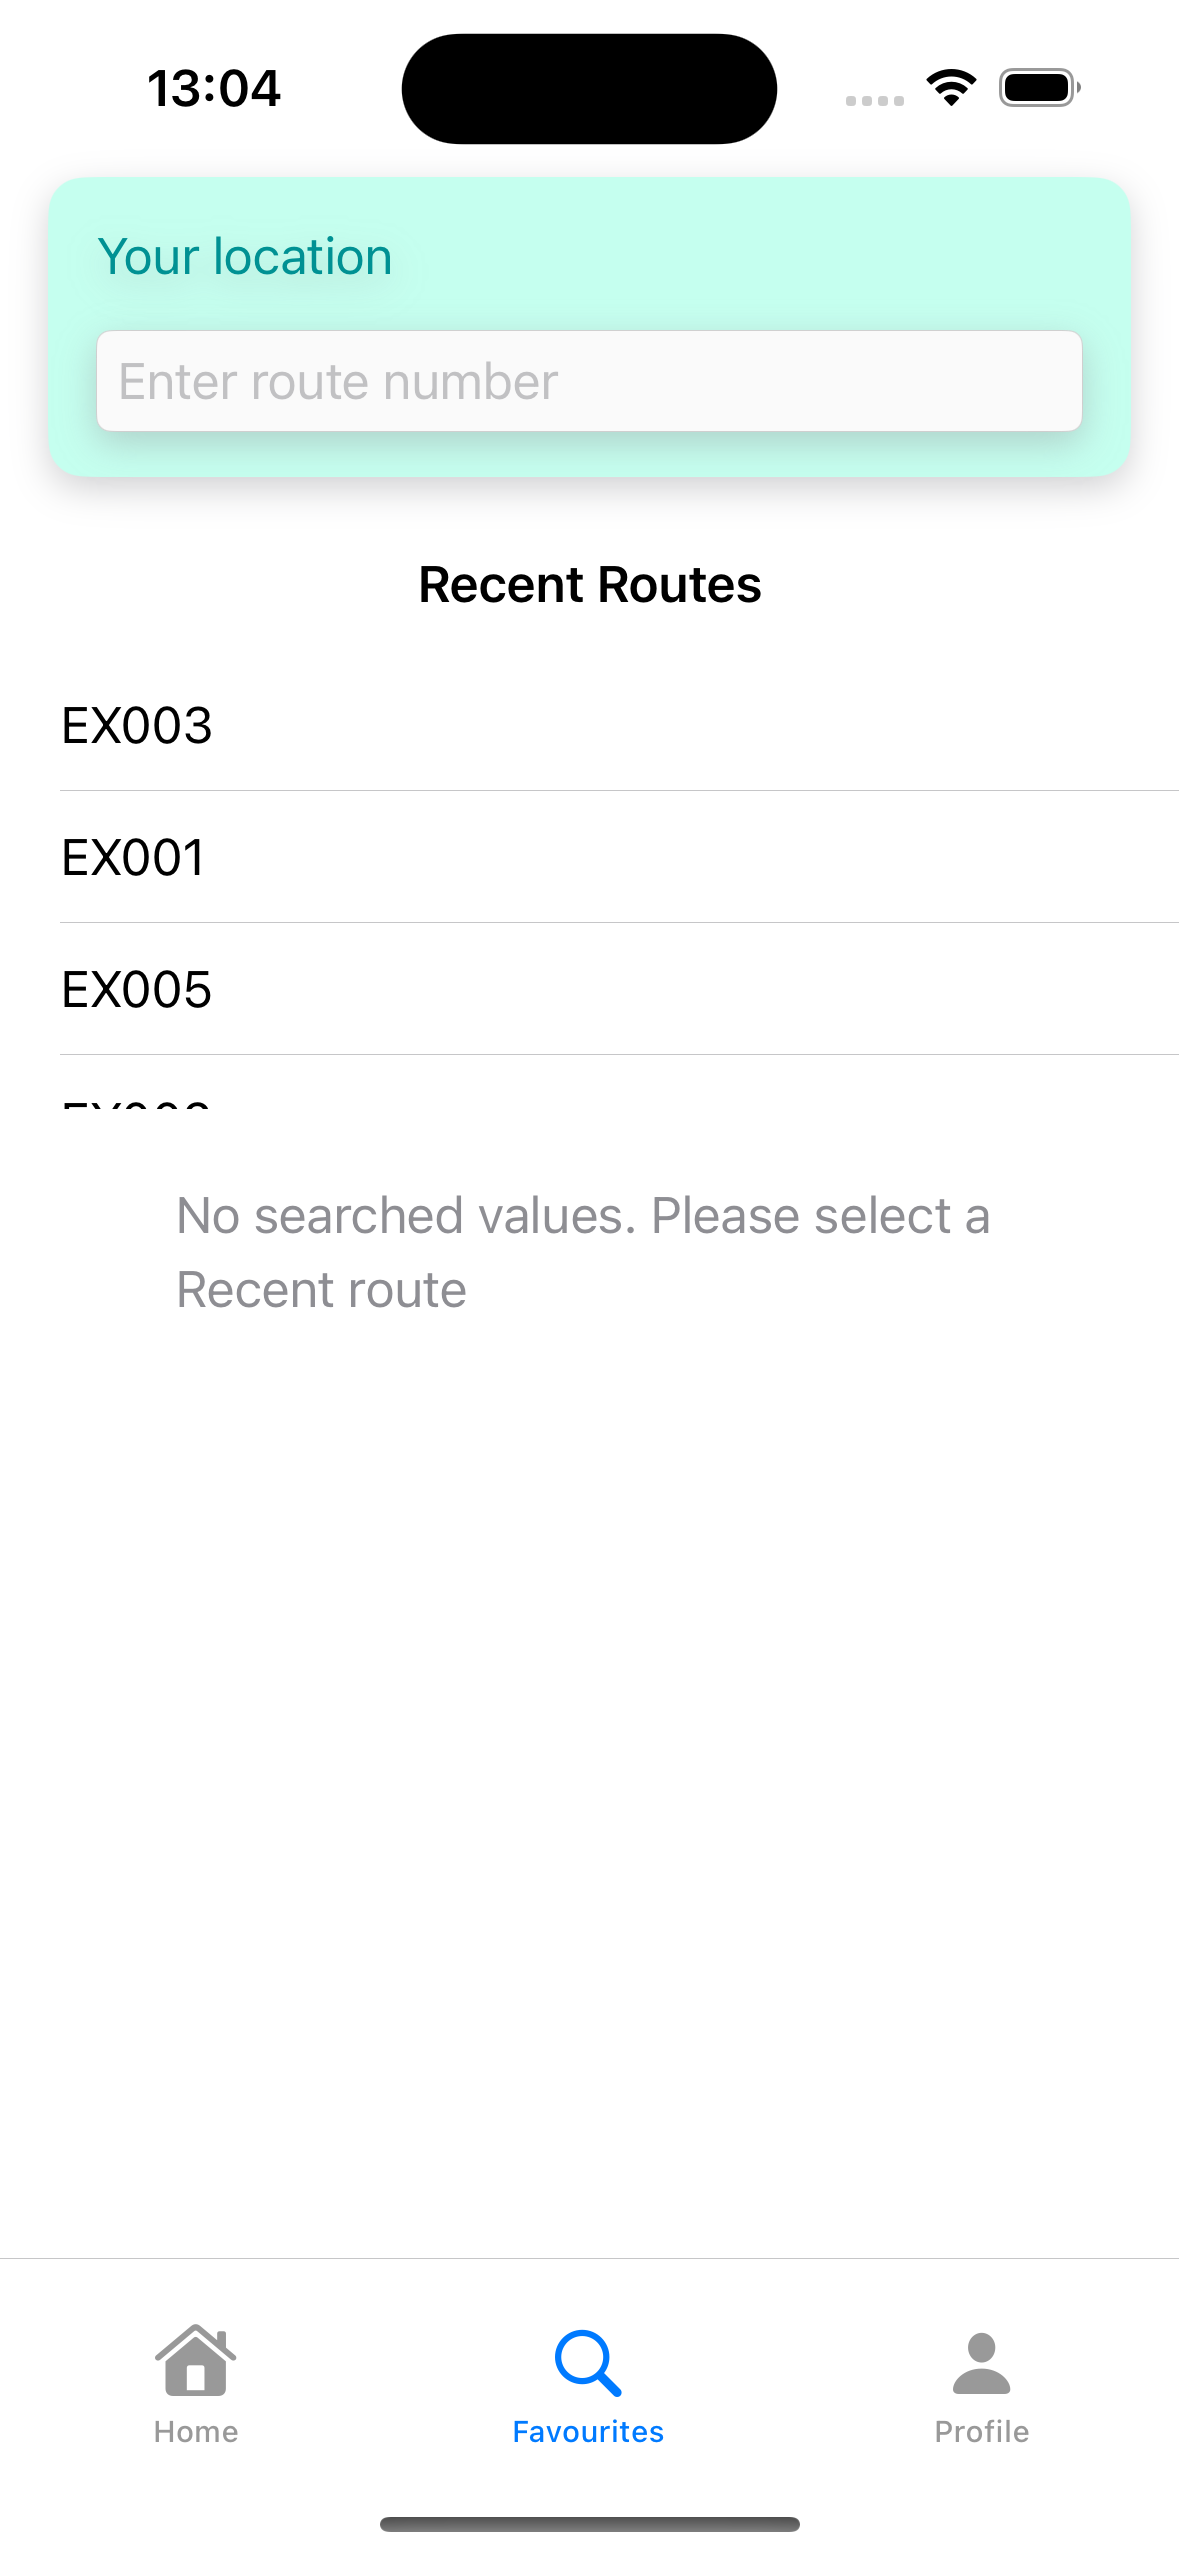
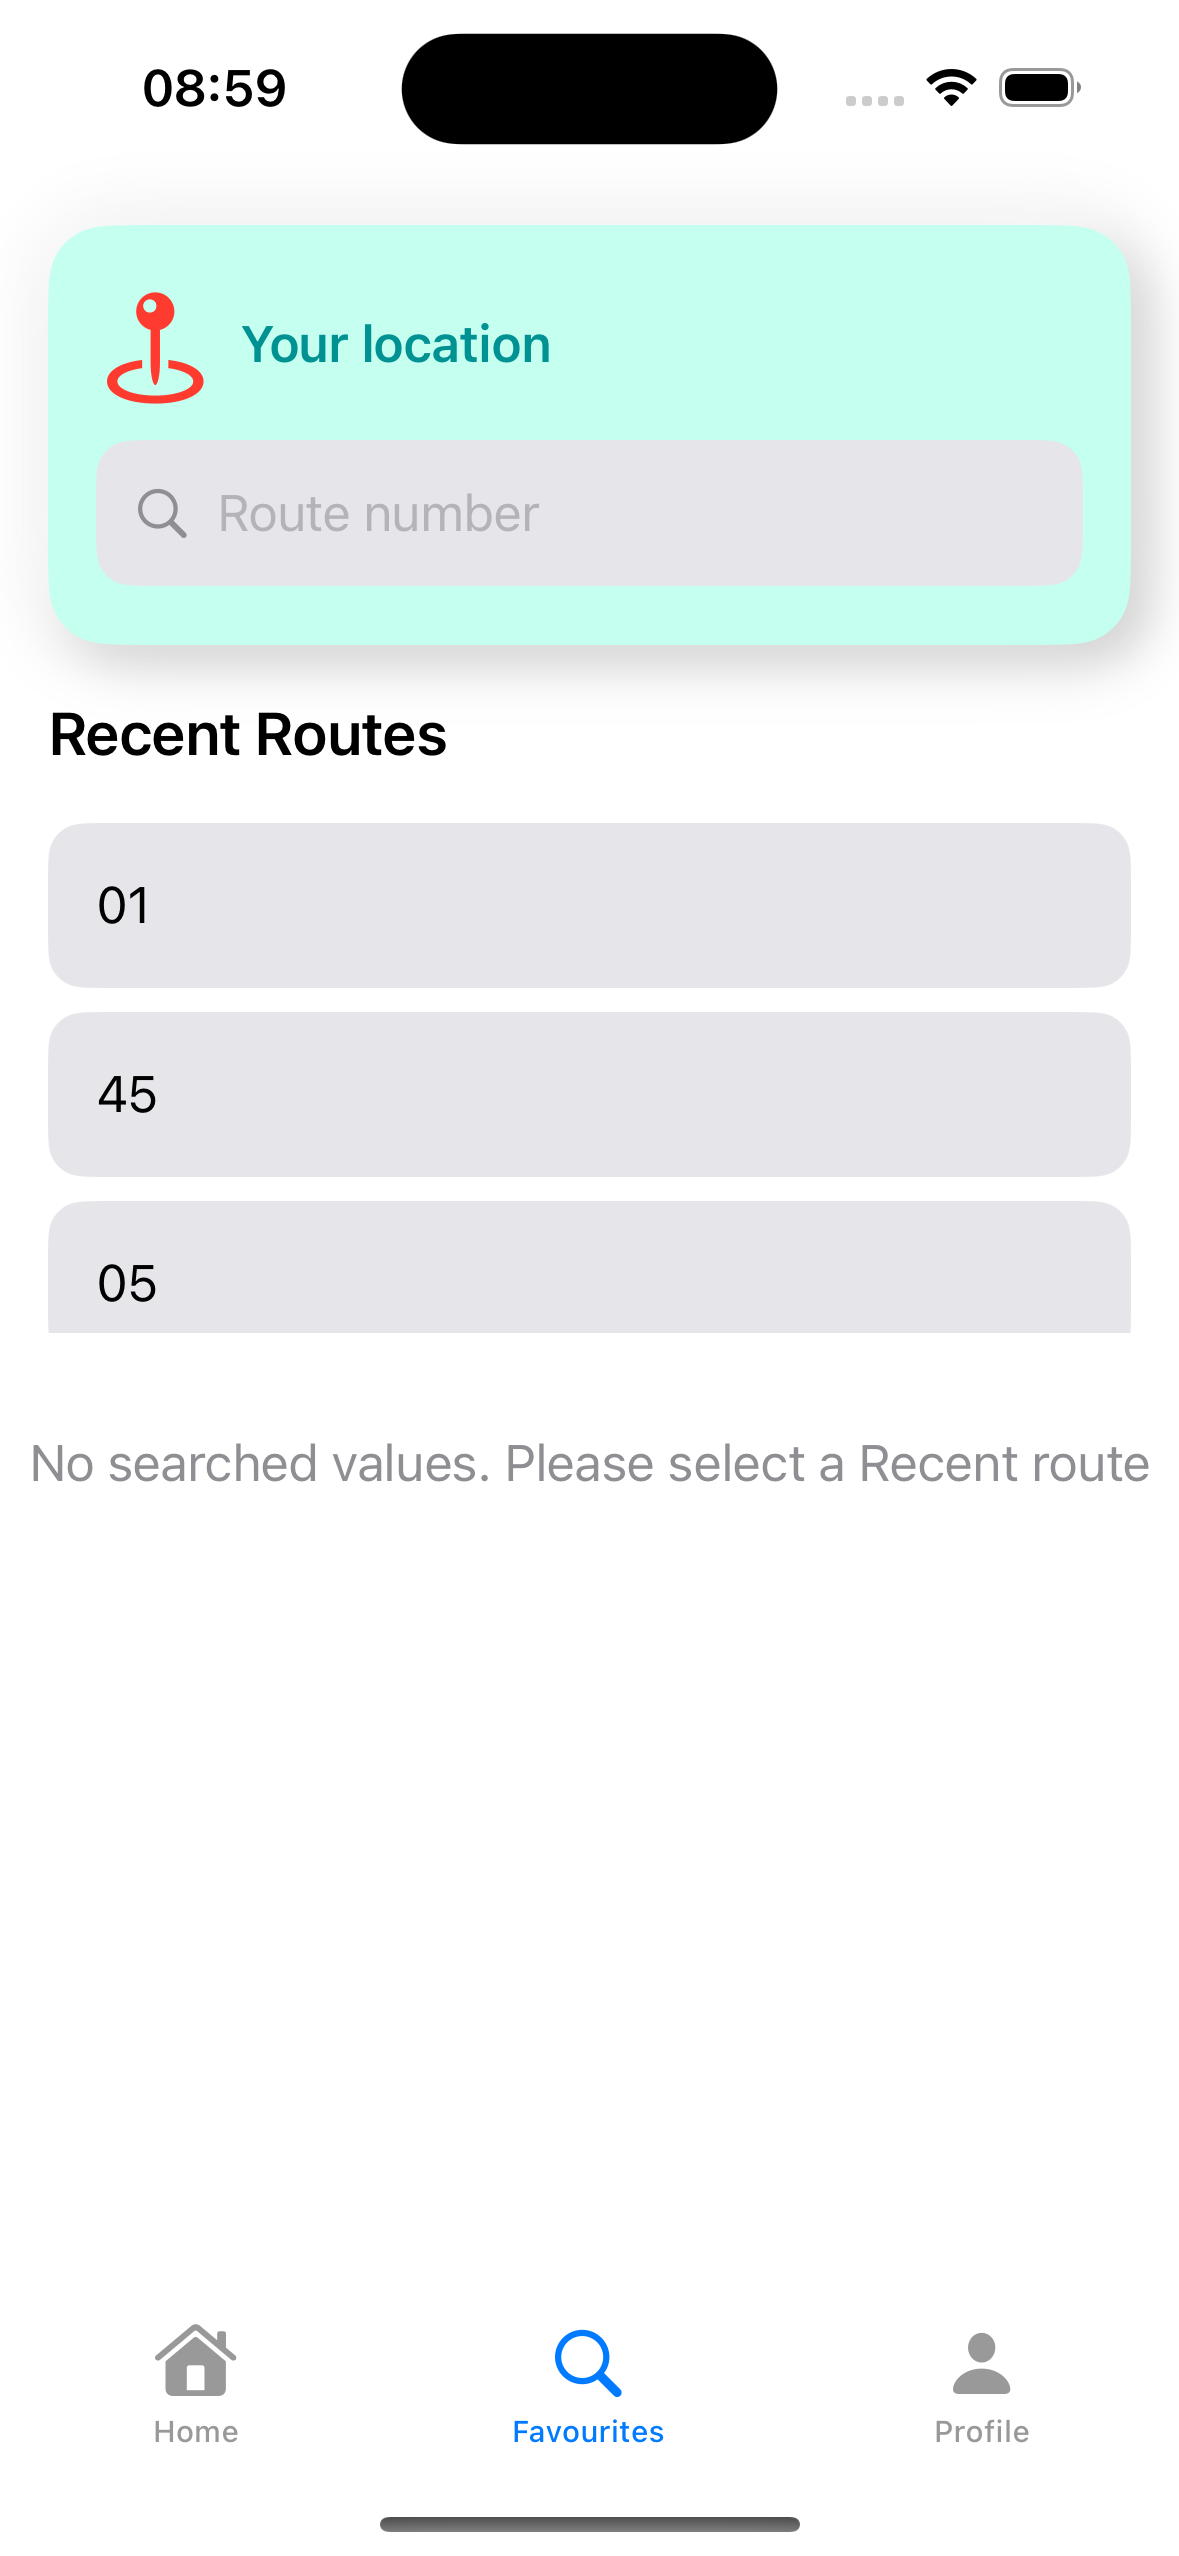
updated SearchView UI

diff --git a/LankaBusRideSwiftUI/Search/Views/SearchView.swift b/LankaBusRideSwiftUI/Search/Views/SearchView.swift
@@ -12,66 +12,93 @@ struct SearchView: View {
     
     var body: some View {
         NavigationView {
-            VStack {
-                RoundedRectangle(cornerRadius: 12)
+            VStack(spacing: 16) {
+                // Top Card with Pin Icon
+                RoundedRectangle(cornerRadius: 20)
                     .fill(Color("LightGreen"))
-                    .frame(height: 100)
+                    .frame(height: 140)
+                    .shadow(color: Color.white.opacity(0.7), radius: 8, x: -6, y: -6)
+                    .shadow(color: Color.black.opacity(0.2), radius: 8, x: 6, y: 6)
                     .overlay(
-                        VStack{
-                            Text("Your location")
-                                .frame(maxWidth: .infinity, alignment: .leading)
-                                .padding(.horizontal, 16)
-                                .foregroundColor(Color("PrimaryGreen"))
-                            TextField("Enter route number", text: $viewModel.routeNumber)
-                                .textFieldStyle(RoundedBorderTextFieldStyle())
-                                .padding(.horizontal, 16)
-                                .disabled(true)
+                        VStack(spacing: 12) {
+                            HStack {
+                                Spacer().frame(width: 16)
+                                Image(systemName: "mappin.and.ellipse")
+                                    .resizable()
+                                    .aspectRatio(contentMode: .fit)
+                                    .frame(width: 40, height: 40)
+                                    .foregroundColor(.red)
+                                
+                                
+                                Text("Your location")
+                                    .font(.headline)
+                                    .foregroundColor(Color("PrimaryGreen"))
+                                    .frame(maxWidth: .infinity, alignment: .leading)
+                            }
+                            VStack(alignment: .leading, spacing: 6) {
+                                HStack {
+                                    Image(systemName: "magnifyingglass")
+                                        .foregroundColor(.gray)
+                                    TextField("Route number", text: $viewModel.routeNumber)
+                                        .disabled(true)
+                                }
+                                .padding(12)
+                                .background(Color(UIColor.systemGray5))
+                                .cornerRadius(12)
+                            }
+                            .padding(.horizontal, 16)
                         }
                     )
-                    .padding(.horizontal, 16)
-                    .shadow(color: .gray.opacity(0.4), radius: 6, x: 0, y: 4)
+                    .padding(.horizontal)
+                
+                // Recent Routes
                 Text("Recent Routes")
-                    .font(.headline)
-                    .padding(.top)
-                VStack {
-                    recentRoutesList
-                        .listStyle(PlainListStyle())
-                }.frame(height: 150.0)
+                    .font(.title3)
+                    .bold()
+                    .frame(maxWidth: .infinity, alignment: .leading)
+                    .padding(.horizontal)
+                
+                
+                ScrollView {
+                    ForEach(viewModel.allRouteInfos) { route in
+                        Button(action: {
+                            viewModel.selectedRoute = route
+                        }) {
+                            Text(route.routeNumber)
+                                .font(.body)
+                                .foregroundColor(.primary)
+                                .frame(maxWidth: .infinity, alignment: .leading)
+                                .padding()
+                                .background(Color(UIColor.systemGray5))
+                                .cornerRadius(12)
+                                .padding(.horizontal, 16)
+                        }
+                    }
+                }
+                .frame(height: 170)
+                .clipped()
                 
                 ScrollView {
                     if viewModel.routeNumber.isEmpty {
-                        VStack(alignment: .leading) {
-                            Text("No searched values. Please select a Recent route")
-                                .foregroundColor(.gray)
-                                .padding()
-                        }
+                        Text("No searched values. Please select a Recent route")
+                            .foregroundColor(.gray)
+                            .padding(.top, 16)
                     } else {
-                        VStack(spacing: 12) {
-                            ForEach(viewModel.filteredBusRoutes, id: \.self) { route in
-                                NavigationLink(destination: DetailView(busID: route.id)) {
-                                    AvailableBusRow(bus: route)
-                                        .padding(.horizontal, 16)
-                                }
+                        ForEach(viewModel.filteredBusRoutes, id: \.self) { route in
+                            NavigationLink(destination: DetailView(busID: route.id)) {
+                                AvailableBusRow(bus: route)
+                                    .padding(.horizontal, 16)
                             }
                         }
-                        .padding(.vertical, 8)
                     }
                 }
                 
-                Divider().padding(.vertical)
+                Spacer(minLength: 10)
             }
+            .padding(.top)
+            .navigationBarHidden(true)
             .onAppear {
                 viewModel.loadTopRoutes()
-            }
-        }
-    }
-    
-    private var recentRoutesList: some View {
-        List(viewModel.allRouteInfos, id: \.id) { route in
-            Button {
-                viewModel.selectedRoute = route
-            } label: {
-                RouteInfoCell(route: route)
             }
         }
     }
